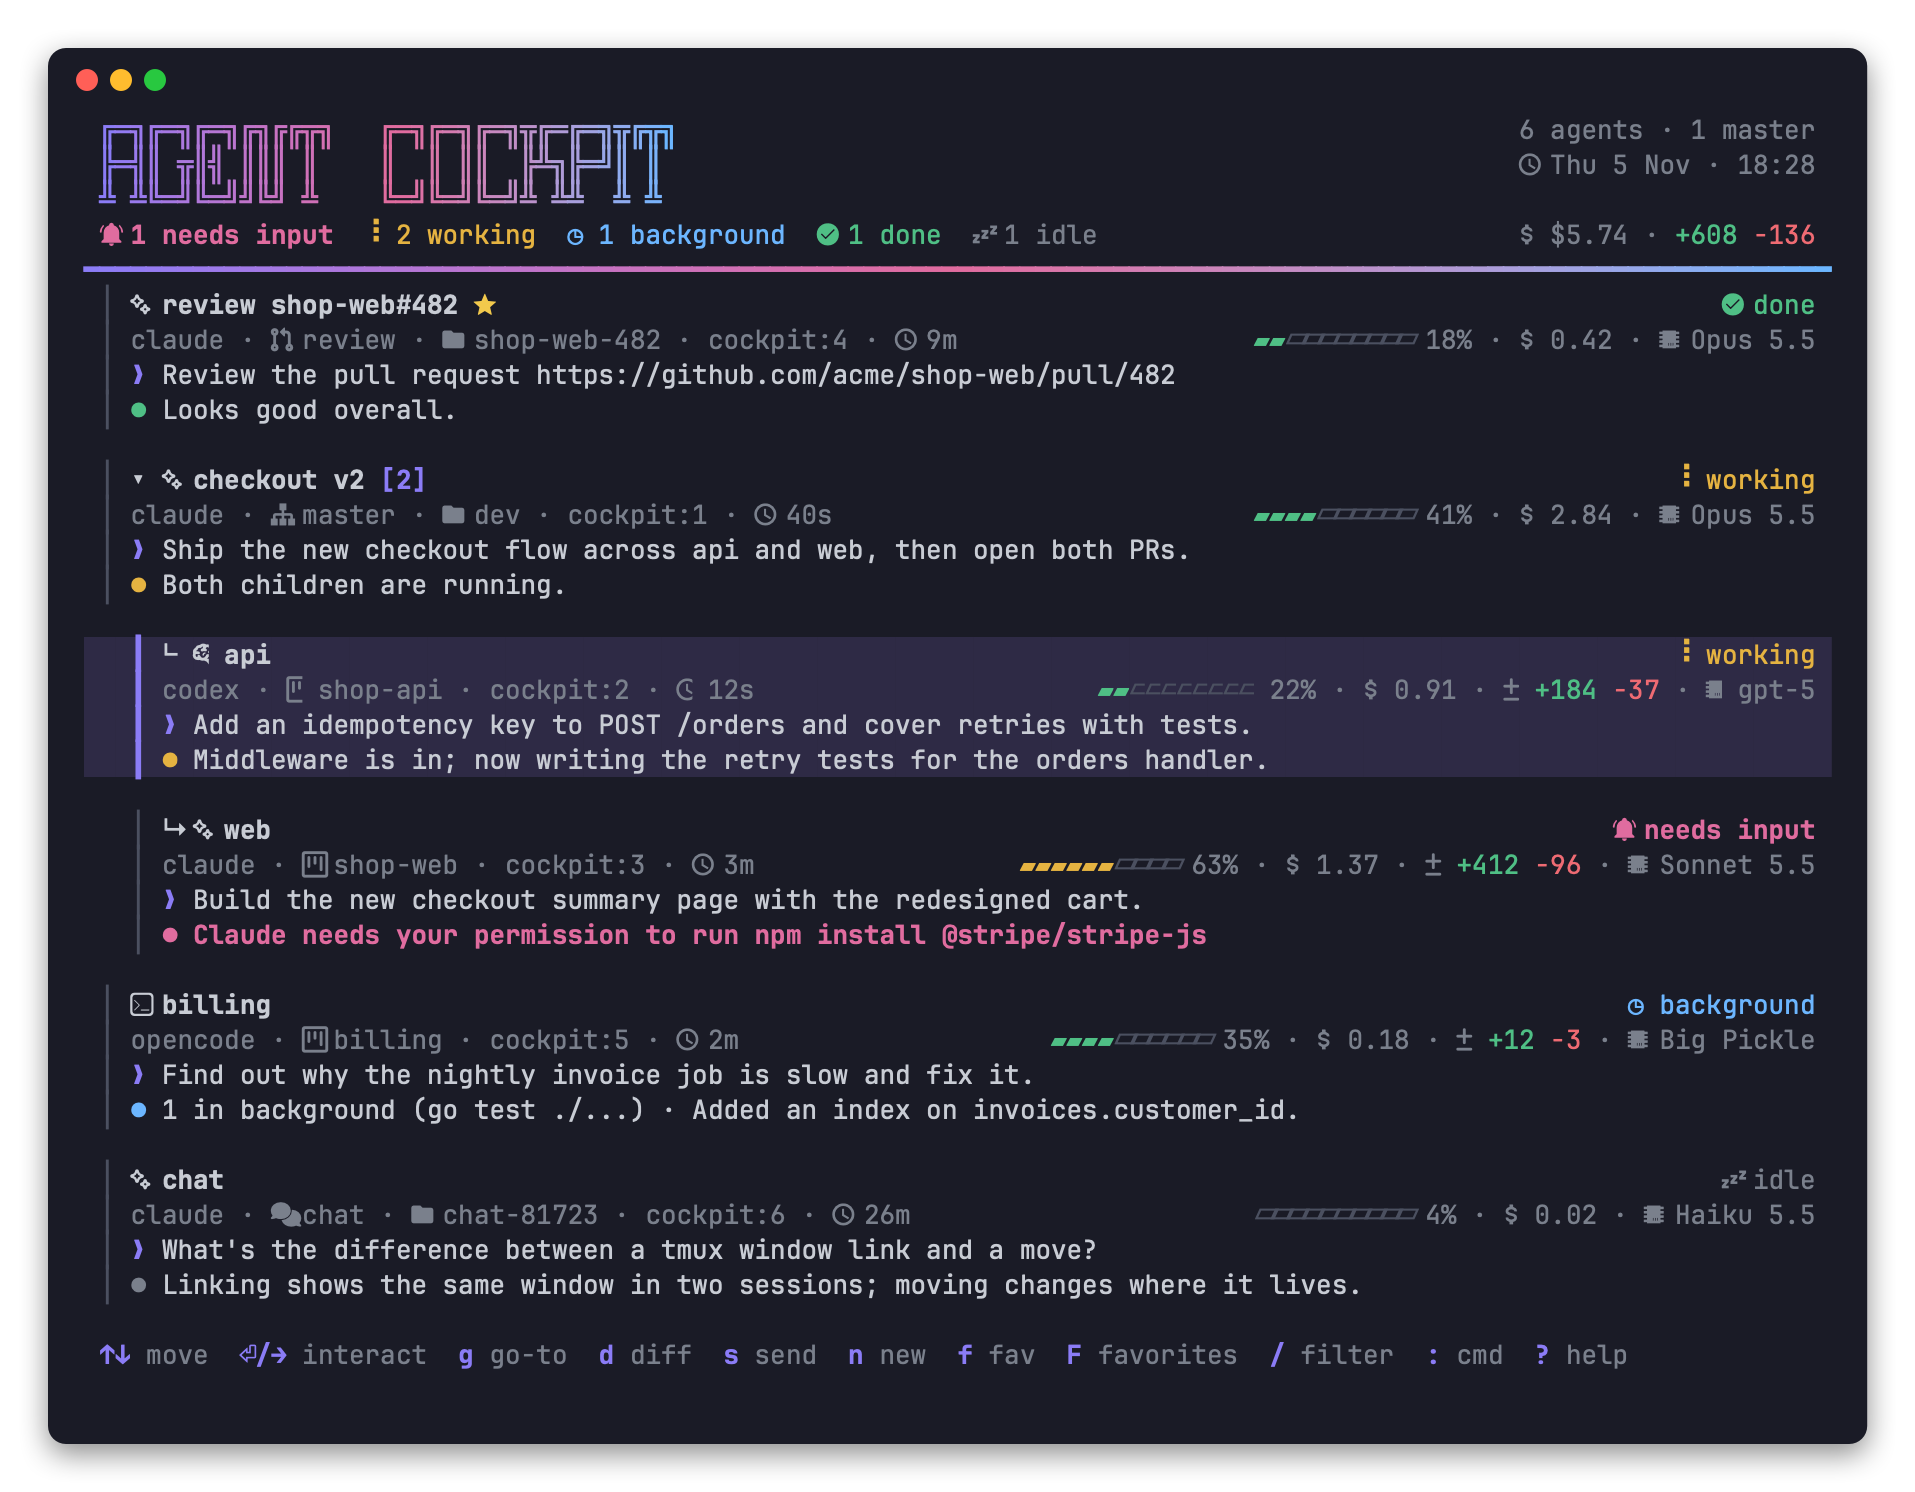
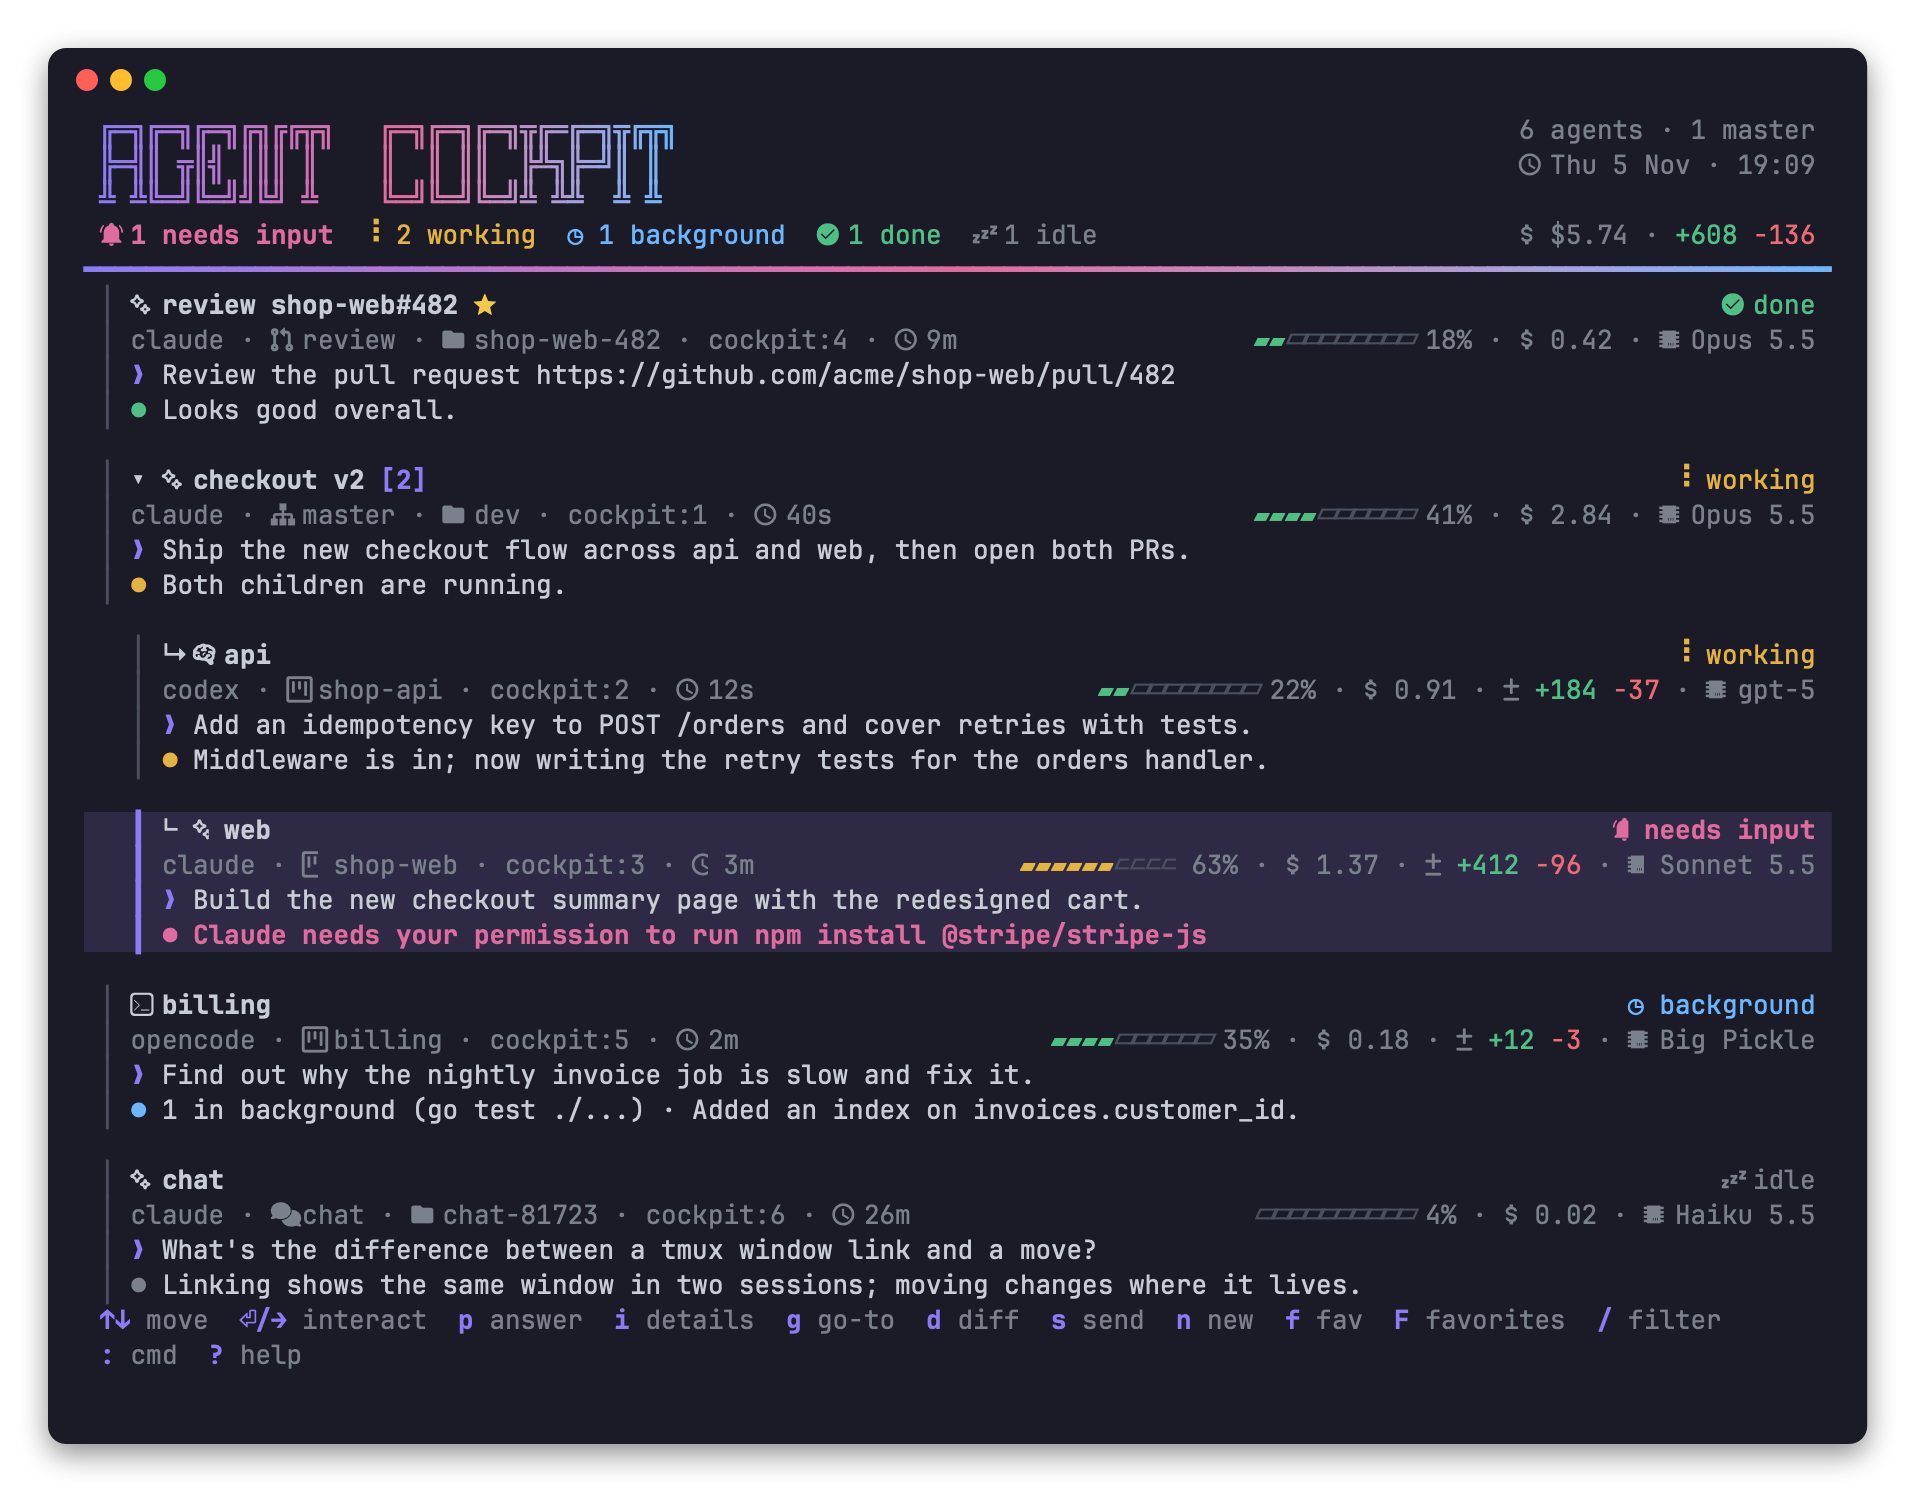
Prepare v0.0.2
Add a changelog, refresh the README screenshot and fix the new command
usage text.

diff --git a/cmd/cockpit/main.go b/cmd/cockpit/main.go
@@ -22,7 +22,8 @@ const usage = `usage: cockpit <command>
   mcp                  run the MCP server (stdio)
   version              print the cockpit version
 
-  new [--agent A] [--project P | --dir D] [--name N] [--label L] [--prompt T]
+  new [--mode M] [--agent A] [--project P | --dir D] [--url U] [--name N]
+      [--label L] [--prompt T] [--worktree]
                        start an agent, print its pane id
   list [--json]        list running agents
   send TARGET TEXT...  send a prompt (TEXT - reads stdin)

diff --git a/CHANGELOG.md b/CHANGELOG.md
@@ -1,0 +1,15 @@
+# Changelog
+
+## v0.0.2
+
+- Answer an agent's permission prompt from the dashboard: `p`, then `y` approve once, `a` approve always or `n` deny (Claude Code and OpenCode).
+- Detail panel (`i`): the full last prompt and reply plus the recent conversation, updated live.
+- Run a coding agent in its own git worktree: a step in the new-session wizard, `cockpit new --worktree`, and `worktree: true` on `spawn_agent`.
+- Masters close finished children with the new `close_agent` MCP tool.
+- Notifications are no longer lost when Claude ends a turn from its background daemon.
+- `get_diff` shows committed, uncommitted and untracked work since the branch left the default branch, like `d`.
+- CI runs lint and tests on Linux and macOS for every push and pull request.
+
+## v0.0.1
+
+First release: the dashboard, the new-session wizard (coding, PR review, master and chat), master agents through the MCP server, the dedicated tmux session, go-to, move, favorites, restore, diff review and the CLI.

diff --git a/README.md b/README.md
@@ -80,7 +80,7 @@ Commands:
 
 | Command | Action |
 |---|---|
-| `:new [agent] [project\|dir]` | start a session (no args opens the form) |
+| `:new [agent] [project\|dir]` | start a session (no args opens the wizard) |
 | `:send <text>` | send a prompt to the selected agent |
 | `:broadcast <text>` | send a prompt to every listed agent (combine with `/` to target a subset) |
 | `:stop` | interrupt the selected agent (Esc) |
